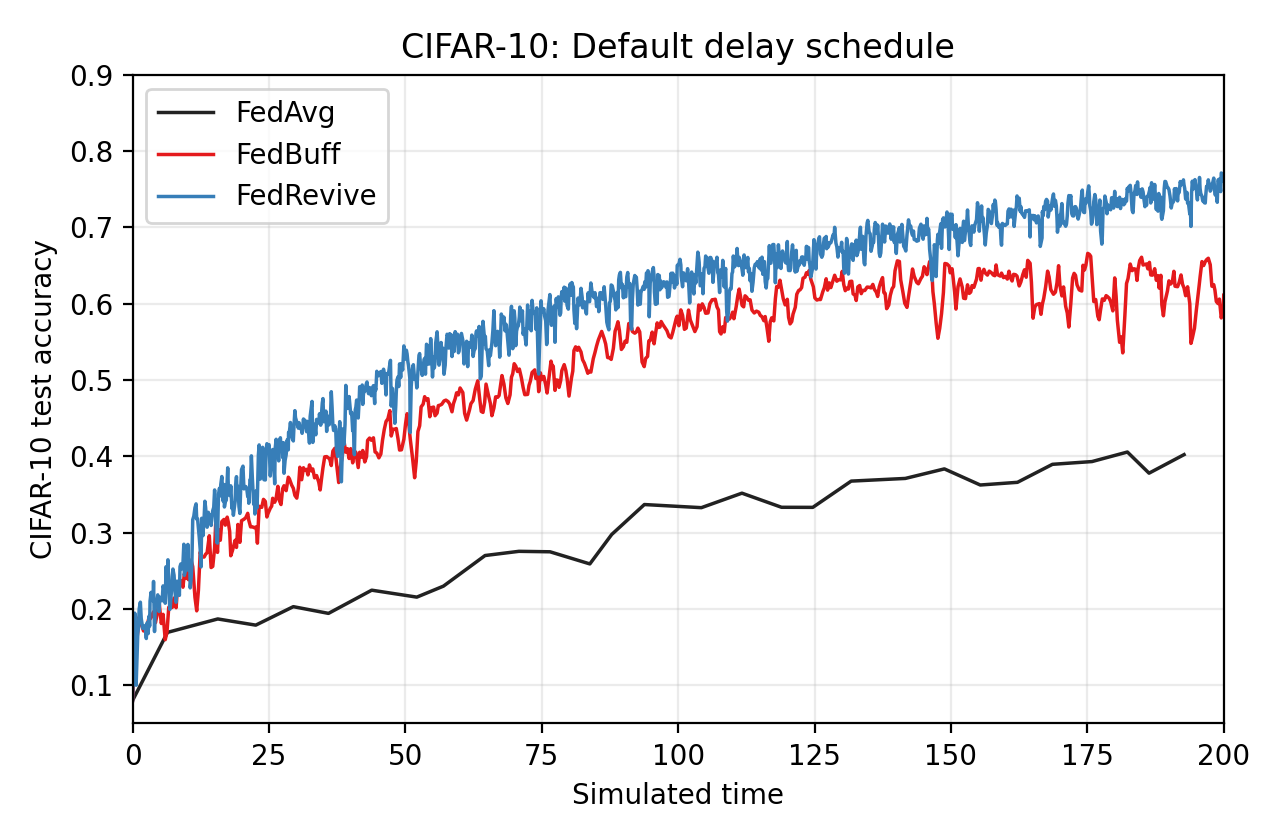
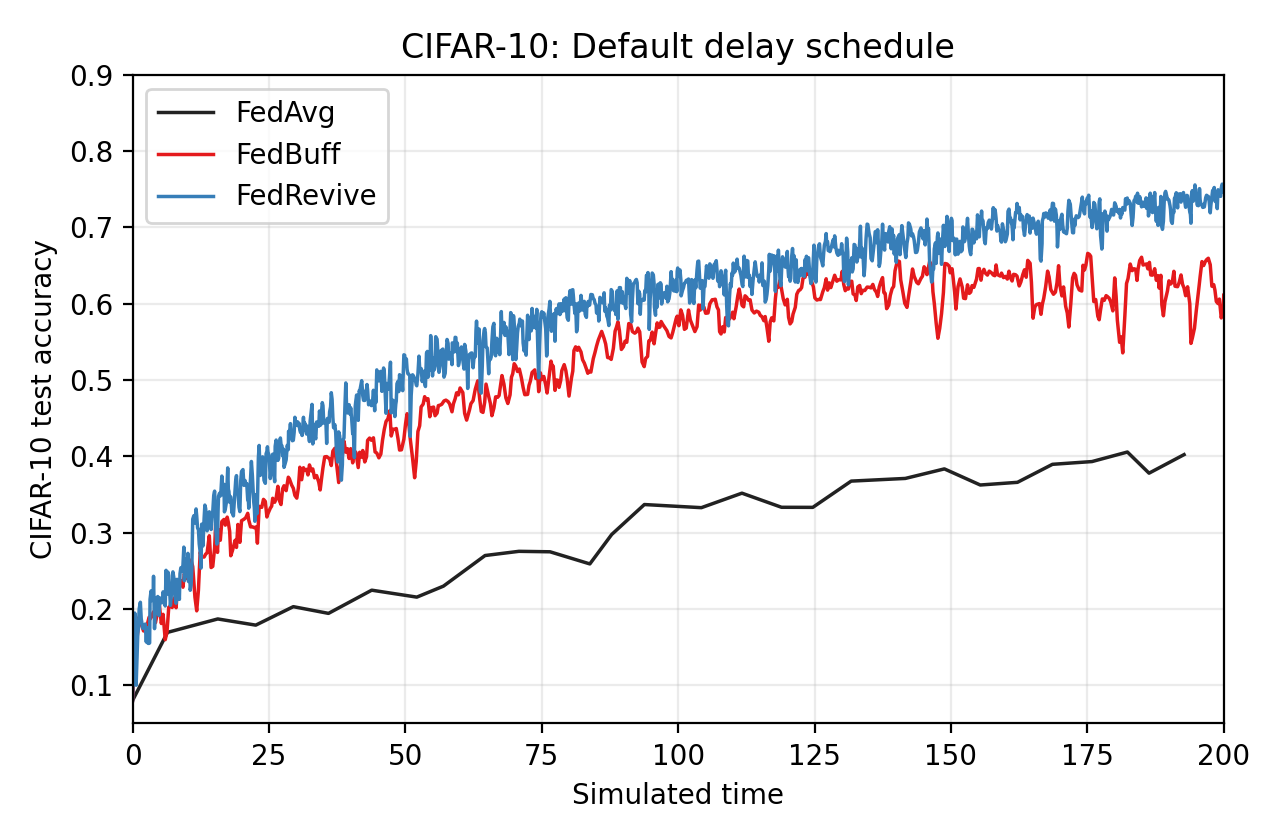
Refine FedRevive paper fidelity

Changed region(s): [[0.2188, 0.1857, 0.9688, 0.5262], [0.1562, 0.5262, 0.2188, 0.619], [0.125, 0.65, 0.1562, 0.7119]]

diff --git a/research/fedrevive/job.py b/research/fedrevive/job.py
@@ -73,14 +73,14 @@ def define_parser():
     parser.add_argument(
         "--class-proportion-source",
         choices=[source.value for source in ClassProportionSource],
-        default=ClassProportionSource.TRUE_HISTOGRAM.value,
-        help="How FedRevive obtains each client's class proportions",
+        default=None,
+        help="How FedRevive obtains class proportions; defaults to estimated for FedRevive",
     )
     parser.add_argument(
         "--generation-interval",
         type=int,
-        default=1,
-        help="Generate synthetic data every N global model versions",
+        default=None,
+        help="Generate synthetic data every N global model versions; defaults to 10 for FedRevive",
     )
     parser.add_argument(
         "--class-proportion-probe-count",
@@ -89,7 +89,7 @@ def define_parser():
         help="Number of Gaussian inputs used for each class-proportion probe",
     )
     parser.add_argument("--max-time", type=float, default=200.0, help="Simulated-time budget")
-    parser.add_argument("--max-model-versions", type=int, default=50000)
+    parser.add_argument("--max-model-versions", type=int, default=100000)
     parser.add_argument("--data-root", default="/tmp/cifar10")
     parser.add_argument("--prepared-data-root", default="/tmp/fedrevive/cifar10")
     parser.add_argument("--prepare-data", action="store_true")
@@ -143,11 +143,11 @@ def validate_args(args):
         raise ValueError("--max-time, --local-iterations, and --local-batch-size must be positive")
     if args.local_lr <= 0 or args.call_timeout <= 0 or args.num_workers < 0:
         raise ValueError("--local-lr and --call-timeout must be positive; --num-workers must be nonnegative")
-    if args.generation_interval < 1 or args.class_proportion_probe_count < 1:
+    if (args.generation_interval is not None and args.generation_interval < 1) or args.class_proportion_probe_count < 1:
         raise ValueError("--generation-interval and --class-proportion-probe-count must be positive")
     if args.method != Method.FEDREVIVE.value and (
-        args.class_proportion_source != ClassProportionSource.TRUE_HISTOGRAM.value
-        or args.generation_interval != 1
+        args.class_proportion_source not in (None, ClassProportionSource.TRUE_HISTOGRAM.value)
+        or args.generation_interval not in (None, 1)
         or args.class_proportion_probe_count != 64
     ):
         raise ValueError("class-proportion, probe-count, and generation options require --method fedrevive")
@@ -159,6 +159,16 @@ def make_recipe(args):
     active_jobs = preset.num_active_jobs if args.num_active_jobs is None else args.num_active_jobs
     buffer_size = preset.buffer_size if args.buffer_size is None else args.buffer_size
     open_slots = preset.min_open_slots if args.min_open_slots is None else args.min_open_slots
+    class_proportion_source = args.class_proportion_source
+    if class_proportion_source is None:
+        class_proportion_source = (
+            ClassProportionSource.ESTIMATED.value
+            if method is Method.FEDREVIVE
+            else ClassProportionSource.TRUE_HISTOGRAM.value
+        )
+    generation_interval = args.generation_interval
+    if generation_interval is None:
+        generation_interval = 10 if method is Method.FEDREVIVE else 1
     if active_jobs < 1:
         raise ValueError("K must be positive")
     if buffer_size < 1 or not 1 <= open_slots <= active_jobs:
@@ -181,8 +191,8 @@ def make_recipe(args):
         setup_seed=args.setup_seed,
         run_seed=args.run_seed,
         max_model_versions=args.max_model_versions,
-        class_proportion_source=args.class_proportion_source,
-        generation_interval=args.generation_interval,
+        class_proportion_source=class_proportion_source,
+        generation_interval=generation_interval,
         class_proportion_probe_count=args.class_proportion_probe_count,
     )
     client = FedReviveClient(

diff --git a/research/fedrevive/server.py b/research/fedrevive/server.py
@@ -208,12 +208,20 @@ class FedReviveServer:
         in_time: bool = True,
         setup_seed: int = 10,
         run_seed: int = 10,
-        max_model_versions: int = 50000,
-        class_proportion_source: ClassProportionSource | str = ClassProportionSource.TRUE_HISTOGRAM,
-        generation_interval: int = 1,
+        max_model_versions: int = 100000,
+        class_proportion_source: ClassProportionSource | str | None = None,
+        generation_interval: int | None = None,
         class_proportion_probe_count: int = 64,
     ):
         self.method = Method(method)
+        if class_proportion_source is None:
+            class_proportion_source = (
+                ClassProportionSource.ESTIMATED
+                if self.method is Method.FEDREVIVE
+                else ClassProportionSource.TRUE_HISTOGRAM
+            )
+        if generation_interval is None:
+            generation_interval = 10 if self.method is Method.FEDREVIVE else 1
         self.class_proportion_source = ClassProportionSource(class_proportion_source)
         self.generation_interval = int(generation_interval)
         self.class_proportion_probe_count = int(class_proportion_probe_count)

diff --git a/research/fedrevive/dfkd.py b/research/fedrevive/dfkd.py
@@ -38,7 +38,7 @@ class DFKDConfig:
     generator_lr: float = 3e-3
     latent_lr: float = 1e-3
     generator_steps: int = 2
-    generation_interval: int = 1
+    generation_interval: int = 10
     warmup_versions: int = 100
     freeze_versions: int = 50
     adversarial_weight: float = 0.1

diff --git a/research/fedrevive/README.md b/research/fedrevive/README.md
@@ -17,6 +17,13 @@ It uses the model, data partition, runtime distributions, and training settings
 reported in the paper. It is intentionally separate from the other NVIDIA
 FLARE CIFAR-10 examples.
 
+The simulated-time scheduler in `server.py` is a controlled-experiment harness:
+it replays the paper's seeded delay schedules on a small physical worker pool
+so results do not depend on host speed. It is not the recommended deployment
+pattern for FedRevive. For real asynchronous training, start from
+[`pt_async_cifar10`](../../examples/advanced/collab/pt_async_cifar10/README.md)
+and reuse the aggregation and DFKD components from `fedrevive.py` and `dfkd.py`.
+
 CIFAR-100, FEMNIST, 20NewsGroups, DD-FedRevive, and AFL-DW are outside this
 initial contribution.
 
@@ -44,12 +51,16 @@ state is only one ten-element sum and one count per observed client. Use
 probes are forwarded in chunks of at most 64 so peak device memory remains
 bounded.
 
-All settings use $K_{synth}=2$, $K_{KD}=10$, and an eight-model teacher buffer
-($c=8$). Distillation still occurs on every eligible stale arrival after
-warmup. When the generation interval is greater than one, the bounded synthetic
-pool is reused between synthesis steps.
+The paper-main setting, and therefore the FedRevive default, uses estimated
+class proportions and `--generation-interval 10`. All settings use
+$K_{synth}=2$, $K_{KD}=10$, and an eight-model teacher buffer ($c=8$).
+Distillation still occurs on every eligible stale arrival after warmup. Between
+synthesis steps, the bounded synthetic pool is reused.
 
 ## Unified scheduling and aggregation
+
+This section describes the deterministic scheduler used only for the controlled
+paper experiment; real deployments use actual client arrivals directly.
 
 The server exposes three scheduling parameters:
 
@@ -196,13 +207,22 @@ $$
 DFKD starts after model version 50 when the accepted update has nonzero
 staleness. Steps 1--3 occur when the model version is divisible by
 `--generation-interval`, while step 4 still occurs for every eligible update
-after the version-100 warmup:
+after the version-100 warmup. These version-50 and version-100 gates are part
+of the curve-producing experimental configuration but are not specified in the
+paper:
 
-1. adapts a fast copy of the persistent generator for two synthesis steps;
+1. samples target labels from the mean class-proportion proxy of the buffered
+   teachers and adapts a fast copy of the persistent generator for two
+   synthesis steps;
 2. applies a Reptile update to the persistent generator;
 3. adds the best generated batch to a bounded 16,000-image pool; and
 4. after the version-100 warmup, trains a student for ten multi-teacher KD
    iterations and returns its delta from the current global model.
+
+The mean-teacher target distribution is the setting used to produce these
+curves. It differs from the uniform synthesis-target description in Section
+2.2 of the paper; teacher-specific class proportions are still used separately
+when sampling the synthetic pool for multi-teacher KD.
 
 All synthesis and KD work is server-side. No synthetic data is sent to clients.
 
@@ -215,18 +235,24 @@ All synthesis and KD work is server-side. No synthetic data is sent to clients.
 | Samples per logical client | 350 |
 | Data heterogeneity | Dirichlet, $\alpha=0.5$ |
 | Train/validation/KD split | 37,500 / 7,500 / 5,000 |
-| Model | CIFAR ResNet-18 with feature-statistic trackers |
+| Model | CIFAR ResNet-18 topology with non-normalizing feature-statistic trackers |
 | Client optimizer | Adam |
 | Client learning rate | $3\times10^{-4}$ |
 | Client batch size | 32 |
 | Local iterations | 25 |
 | Teacher buffer | 8 models |
 | Synthesis batch / steps | 64 / 2 |
-| Generator interval | Configurable; 1 by default |
+| Generator interval | Configurable; 10 by default |
 | Generator / latent learning rate | 0.003 / 0.001 |
 | KD batch / iterations / learning rate | 32 per teacher / 10 / $10^{-4}$ |
 | DFKD weights | adversarial 0.1, feature 0.003, one-hot 1.0 |
 | Simulated-time budget | 200 |
+
+The ResNet-18 follows the curve-producing architecture: each conventional
+BatchNorm transform is replaced by a `StatTracker` that records per-channel
+running mean and variance but returns its activation unchanged. Thus, these
+statistics support the DFKD feature loss without normalizing client or server
+activations.
 
 Each logical client has persistent runtime characteristics. Local-training time
 is exponential with a mean drawn from 1.0, 1.3, or 1.6 with probabilities
@@ -285,7 +311,9 @@ requested population exceeds the available training examples.
 
 ## Run the experiments
 
-Each method uses the same entry point and defaults to its table preset:
+Each method uses the same entry point and defaults to its table preset. The
+FedRevive defaults additionally select the paper-main estimated class
+proportions and generation interval of 10:
 
 ```bash
 python job.py --method fedavg \
@@ -297,16 +325,15 @@ python job.py --method fedbuff \
   --max-time 200 --setup-seed 10 --run-seed 10
 
 python job.py --method fedrevive \
-  --class-proportion-source true-histogram --generation-interval 1 \
   --data-root /tmp/cifar10 --prepared-data-root /tmp/fedrevive/cifar10 \
   --max-time 200 --setup-seed 10 --run-seed 10
 ```
 
-To run with estimated class proportions and periodic synthesis:
+To run the true-histogram, every-version synthesis ablation:
 
 ```bash
 python job.py --method fedrevive \
-  --class-proportion-source estimated --generation-interval 10 \
+  --class-proportion-source true-histogram --generation-interval 1 \
   --data-root /tmp/cifar10 --prepared-data-root /tmp/fedrevive/cifar10 \
   --max-time 200 --setup-seed 10 --run-seed 10
 ```
@@ -323,15 +350,14 @@ python job.py --method fedbuff \
 
 python job.py --method fedrevive \
   --delay-schedule shifted \
-  --class-proportion-source true-histogram --generation-interval 1 \
   --data-root /tmp/cifar10 \
   --prepared-data-root /tmp/fedrevive/cifar10_shifted \
   --max-time 100 --setup-seed 10 --run-seed 10
 ```
 
-Use `--class-proportion-source estimated --generation-interval 10` instead to
-combine estimated class proportions and periodic generation with the shifted
-delay schedule.
+Add `--class-proportion-source true-histogram --generation-interval 1` to the
+FedRevive command to run the corresponding ablation under the shifted delay
+schedule.
 
 A CUDA-capable GPU is recommended for both client training and FedRevive's
 server-side DFKD. Device selection defaults to `auto`; use `--client-device
@@ -383,26 +409,31 @@ Figure 1 shows all three method presets over 200 simulated-time units.
 |---|---:|---:|---:|
 | FedAvg | 28 | 0.4022 | 0.4056 |
 | FedBuff | 6,343 | 0.6111 | 0.6659 |
-| FedRevive | 12,687 | 0.7612 | 0.7712 |
+| FedRevive | 12,687 | 0.7462 | 0.7566 |
 
 ### Shifted delay schedule
 
-Figure 2 shows FedBuff and FedRevive over 100 simulated-time units after only
-the delay schedule is changed. FedBuff exhibits large fluctuations and reduced
-accuracy, while FedRevive remains stable under the shifted arrival process.
+Figure 2 shows FedBuff and FedRevive over approximately 100 simulated-time
+units after only the delay schedule is changed. FedBuff exhibits large
+fluctuations and reduced accuracy, while FedRevive remains stable under the
+shifted arrival process. This FedRevive run reached the former 50,000-version
+safety limit at simulated time 97.43; the example now defaults to a
+100,000-version ceiling so the simulated-time budget remains the normal stop
+condition for future runs.
 
 ![FedBuff and FedRevive under the shifted delay schedule](figs/figure_2.png)
 
-| Method | Versions at stop | Final accuracy | Best accuracy |
-|---|---:|---:|---:|
-| FedBuff | 25,662 | 0.3019 | 0.4886 |
-| FedRevive | 51,325 | 0.7917 | 0.8325 |
+| Method | Versions at stop | Time at stop | Final accuracy | Best accuracy |
+|---|---:|---:|---:|---:|
+| FedBuff | 25,662 | 100.00 | 0.3019 | 0.4886 |
+| FedRevive | 50,000 | 97.43 | 0.8025 | 0.8253 |
 
 ### FedRevive configuration options
 
 Figure 3 compares the two FedRevive configurations shown in the run commands:
-true client histograms with synthesis at every version, and server-estimated
-class proportions using 64 Gaussian probes with synthesis every ten versions.
+the paper-main server-estimated class proportions using 64 Gaussian probes with
+synthesis every ten versions, and the true-histogram, every-version synthesis
+ablation.
 Both runs use seed 10 and the same 1,270 centralized evaluation points, model
 versions, and simulated arrival times.
 
